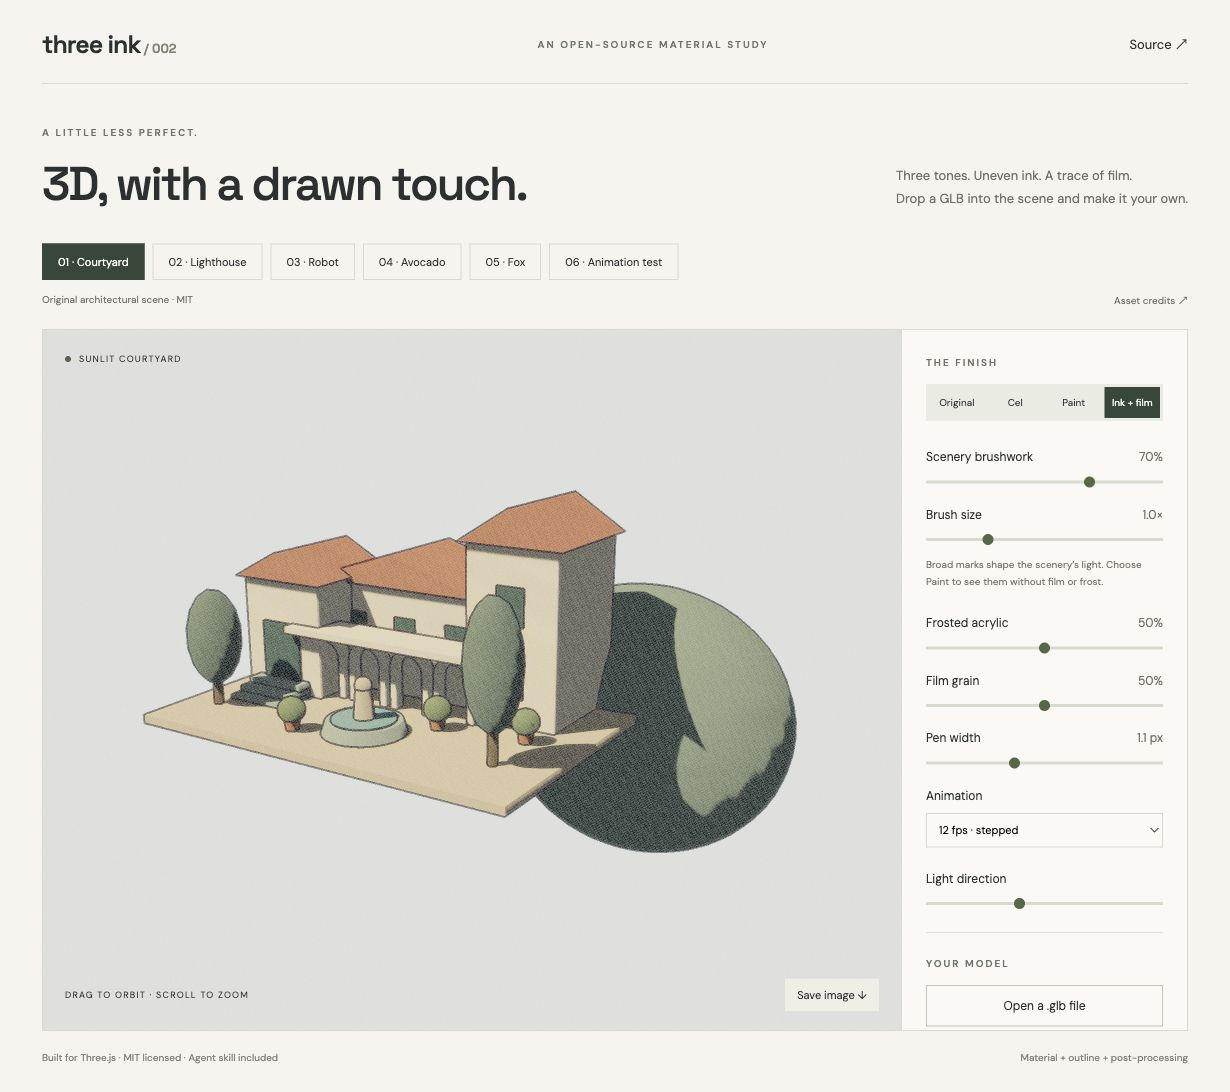
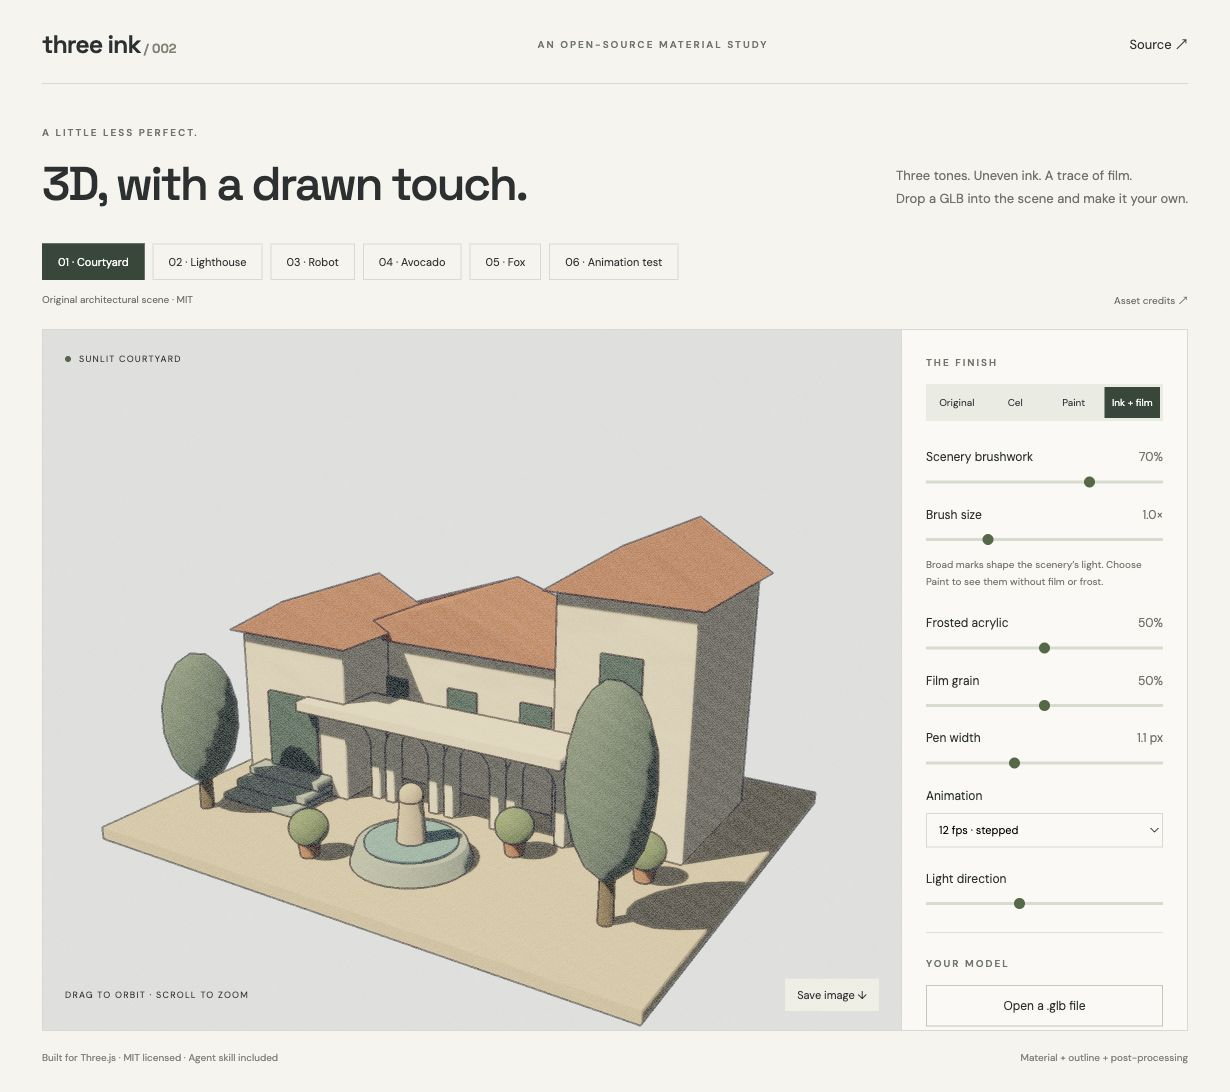
Refine courtyard framing and link rendered asset credits

Changed region(s): [[0.0618, 0.4359, 0.6797, 0.9341]]

diff --git a/index.html b/index.html
@@ -34,7 +34,11 @@
       </nav>
       <div class="example-credit">
         <a id="credit" target="_blank" rel="noreferrer"></a
-        ><a href="./ATTRIBUTION.md" target="_blank">Asset credits ↗</a>
+        ><a
+          href="https://github.com/xymeow/three-ink/blob/main/public/ATTRIBUTION.md"
+          target="_blank"
+          >Asset credits ↗</a
+        >
       </div>
       <section class="workbench">
         <div id="viewport">

diff --git a/demo/scenery.ts b/demo/scenery.ts
@@ -180,8 +180,6 @@ export function courtyard() {
     );
     hill(root, x, 0.6, z, [0.32, 0.3, 0.32], material("#7f916a"));
   }
-  hill(root, -2, -0.8, -5, [5, 2.8, 2.7], material("#9ea890"));
-  hill(root, 4, -1, -5, [4, 3.6, 3], material("#839687"));
   return { root };
 }
 export function lighthouse() {
